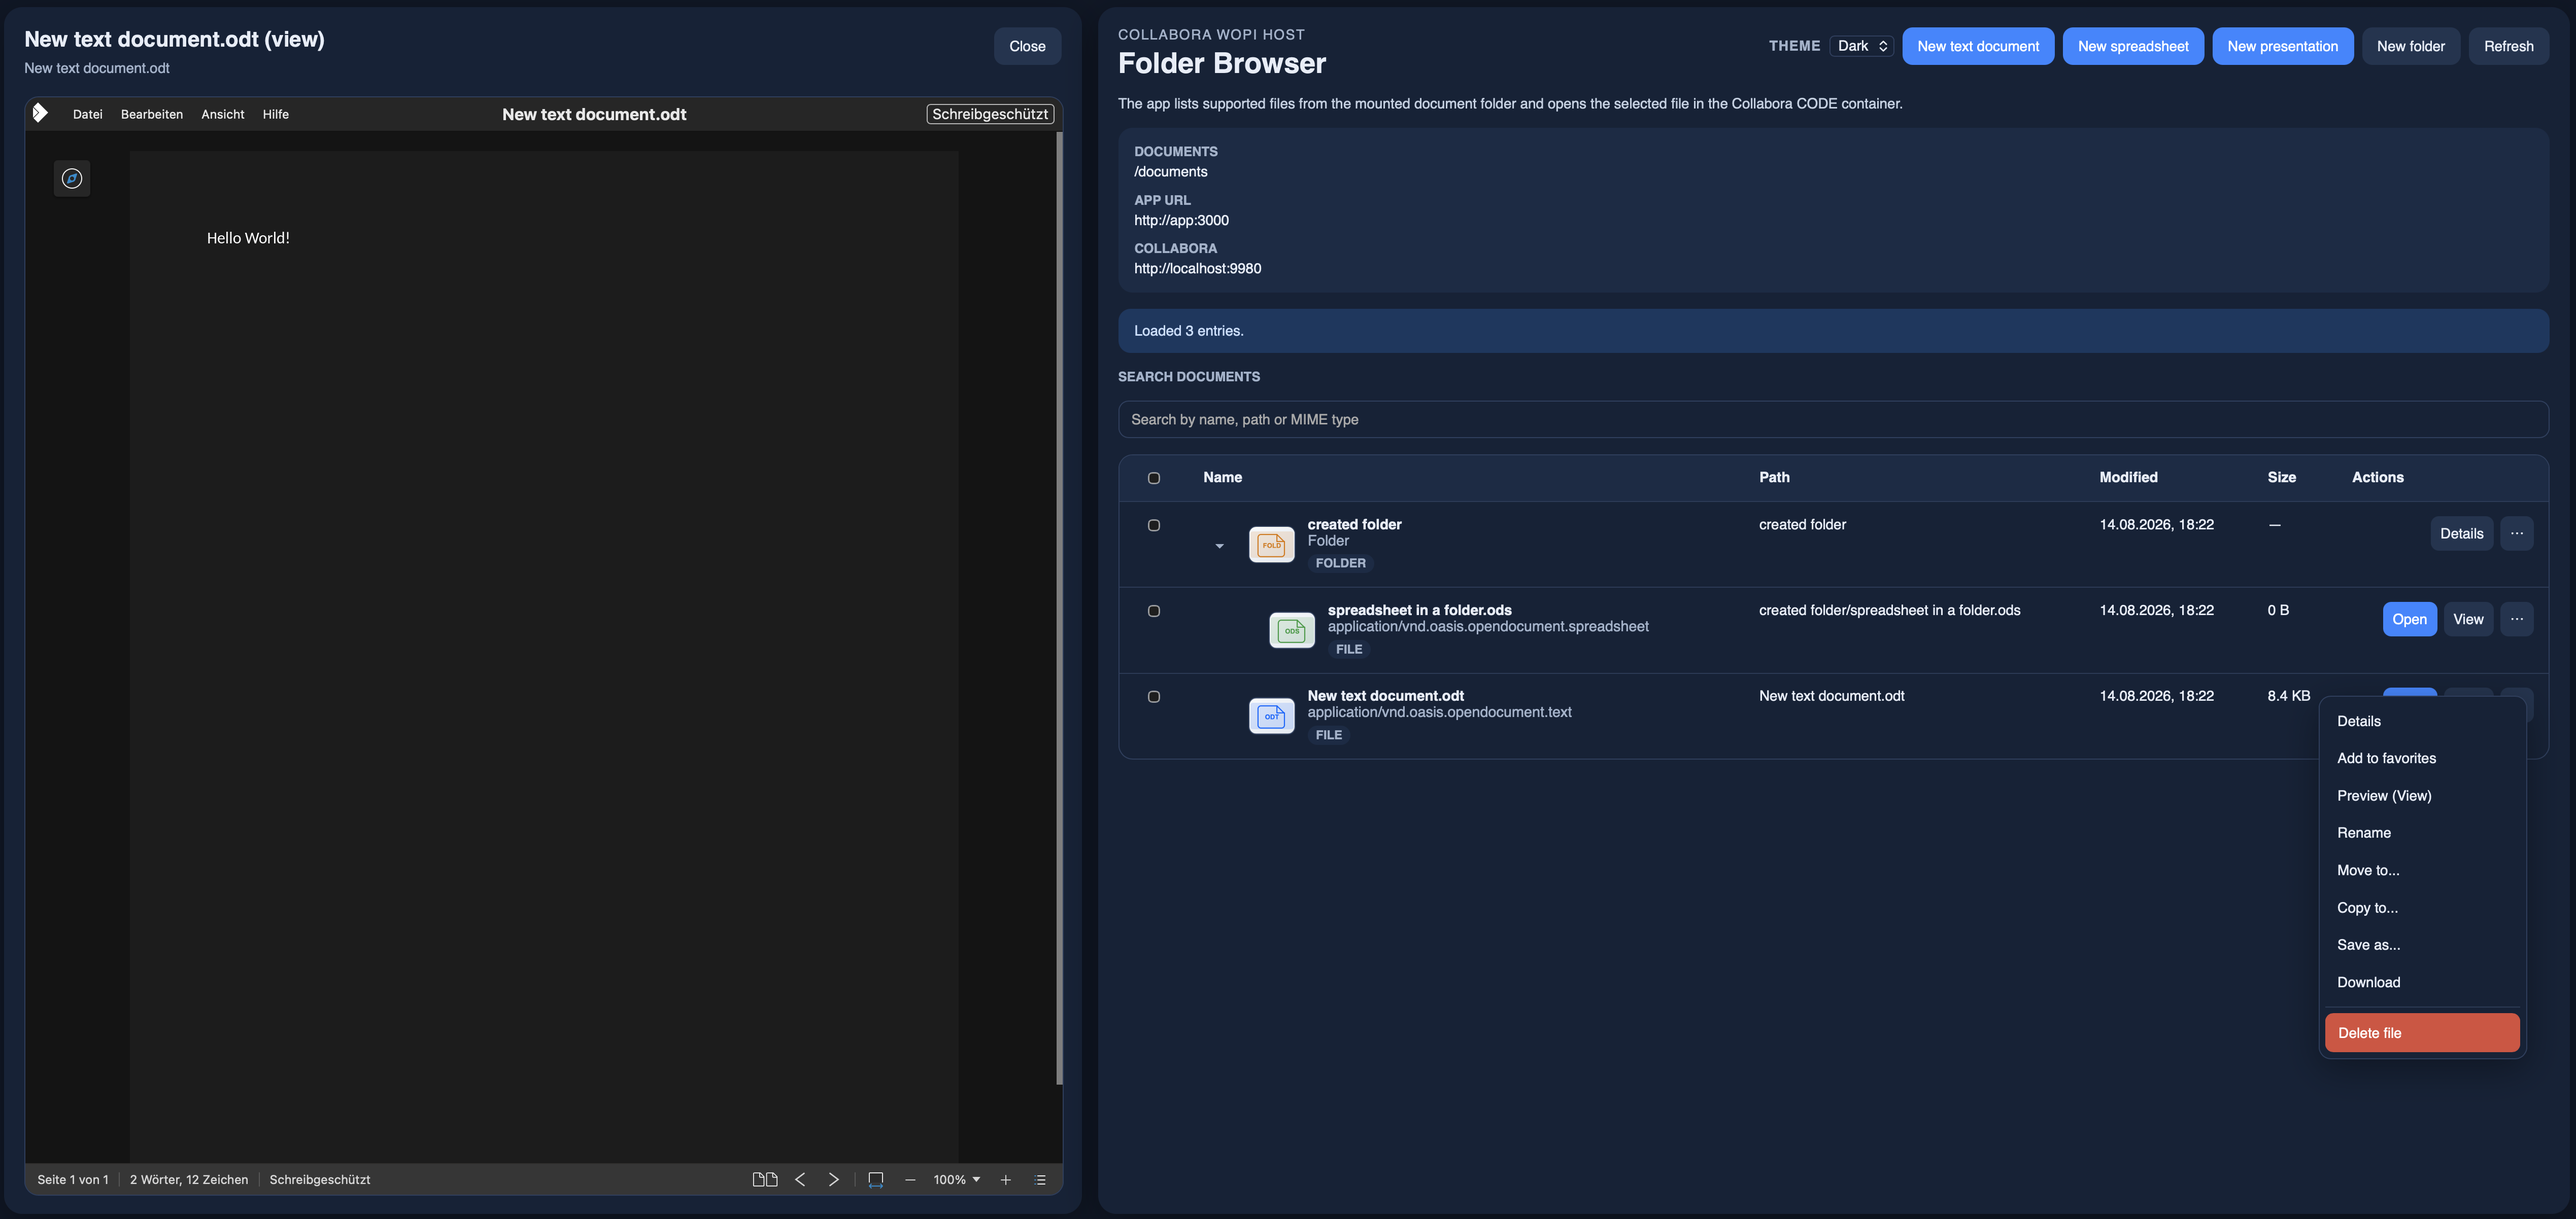
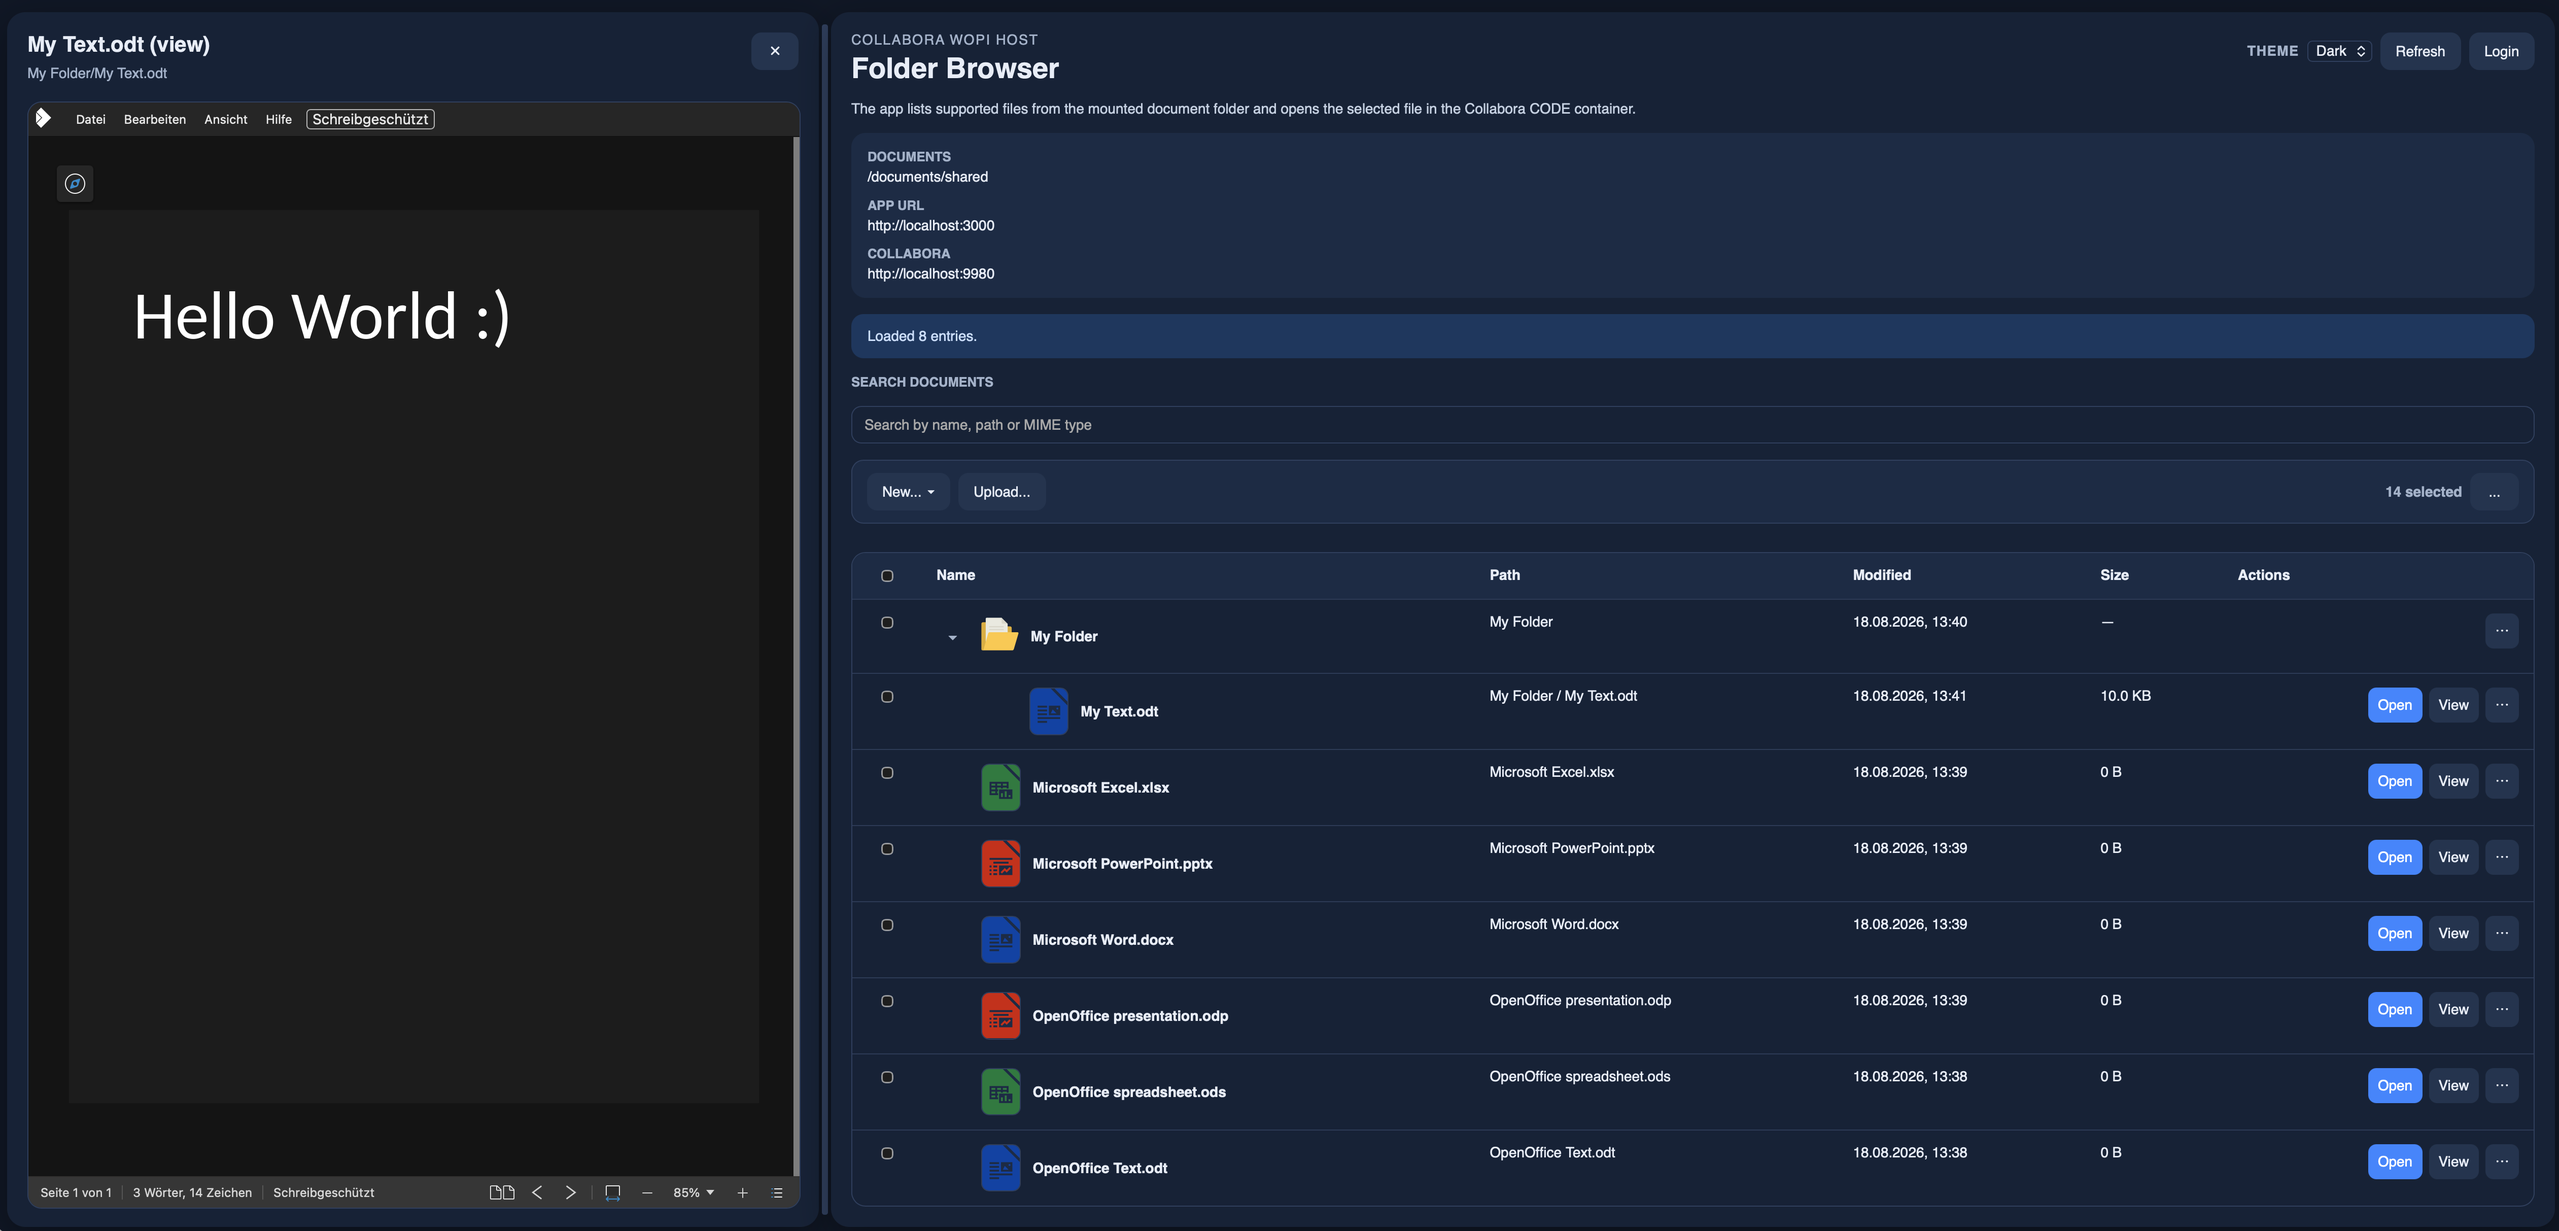
README

diff --git a/lib/discovery.js b/lib/discovery.js
@@ -1,7 +1,7 @@
 'use strict';
 
-const http = require('http');
-const https = require('https');
+const http = require('node:http');
+const https = require('node:https');
 
 const Dom = require('@xmldom/xmldom').DOMParser;
 const xpath = require('xpath');

diff --git a/README.md b/README.md
@@ -2,10 +2,27 @@
 
 This project is a small WOPI host for Collabora Online CODE. It lists Office files from a mounted folder, opens them in Collabora, and writes saves back into the same folder.
 
+## Easy file browser with document preview
 <picture>
   <source media="(prefers-color-scheme: dark)" srcset="screenshot_dark.png">
   <source media="(prefers-color-scheme: light)" srcset="screenshot_light.png">
   <img alt="Screenshot" src="screenshot_light.png">
+</picture>
+
+
+## Detailed file view for sharing, activity and document restore
+<picture>
+  <source media="(prefers-color-scheme: dark)" srcset="screenshot_details_dark.png">
+  <source media="(prefers-color-scheme: light)" srcset="screenshot_details_light.png">
+  <img alt="Screenshot" src="screenshot_details_light.png">
+</picture>
+
+
+## Runs out-of-box as shared-user and can be used with accounts, also.
+<picture>
+  <source media="(prefers-color-scheme: dark)" srcset="screenshot_admin_dark.png">
+  <source media="(prefers-color-scheme: light)" srcset="screenshot_admin_light.png">
+  <img alt="Screenshot" src="screenshot_admin_light.png">
 </picture>
 
 ## Features
@@ -82,7 +99,7 @@ The Compose file already wires the important variables:
 | Variable | Purpose | Default |
 | --- | --- | --- |
 | `DOCUMENTS_HOST_PATH` | Host folder mounted into the app container | `./example-documents` |
-| `WOPI_STATE_ROOT` | Dedicated folder for persistent runtime state; defaults to `<DOCUMENT_ROOT>/.wopi-state` | `<DOCUMENT_ROOT>/.wopi-state` |
+| `WOPI_STATE_ROOT` | Dedicated folder for persistent runtime state | `./wopi-state` |
 | `APP_BASE_URL` | Collabora-reachable base URL used for `WOPISrc` callbacks | `http://app:3000` |
 | `COLLABORA_INTERNAL_URL` | URL used by the app container to fetch discovery | `http://collabora:9980` |
 | `COLLABORA_PUBLIC_URL` | Browser-visible Collabora URL used inside the iframe | `http://localhost:9980` |
@@ -104,6 +121,9 @@ services:
 ```
 
 This keeps the document volume clean while preserving the app's registry, locks, and cache data in a dedicated Docker volume or host folder.
+
+| Variable | Purpose | Default |
+| --- | --- | --- |
 | `MAX_DOCUMENT_SIZE` | Raw upload limit for `PutFile` | `100mb` |
 | `TEMPLATE_ROOT` | Template root folder for personal/group/global/admin templates | `<DOCUMENT_ROOT>/.templates` |
 | `DEFAULT_EDITOR_MODE` | Launch mode for Open action (`edit`/`view`) | `edit` |
